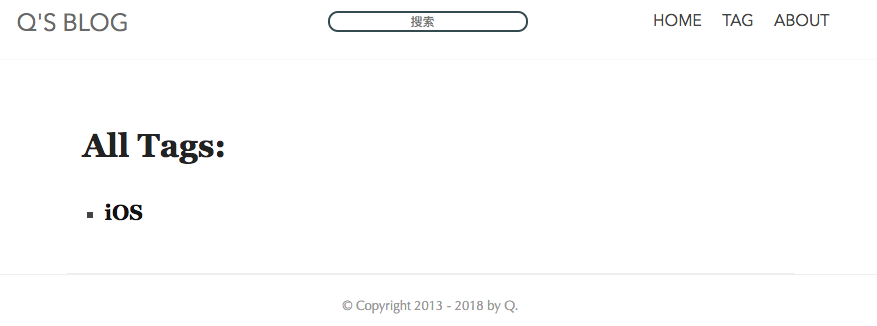
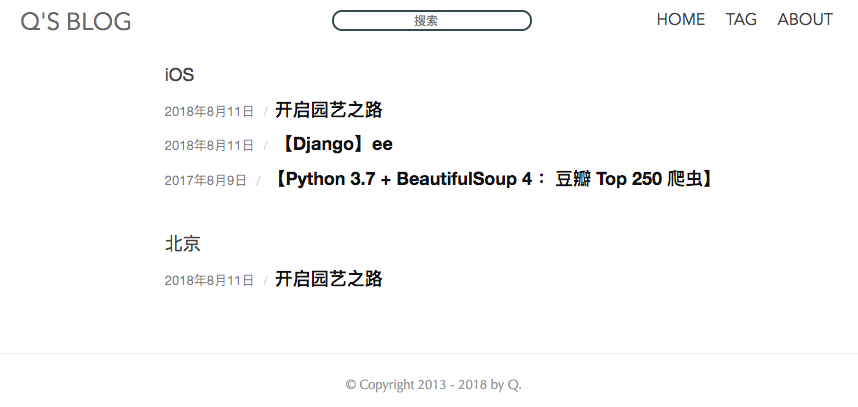
Alter the style of tag page and index, add about me page.

diff --git a/templates/tag.html b/templates/tag.html
@@ -5,19 +5,23 @@
 {% block content %}
 
     <div id="main" class="container X">
-        <div class="entry-header">
-            <div class="container">
-                <h1>All Tags:</h1>
-                <ul>
-                    {% for tag in tags %}
-                    <li>
-                        <h3><a href="{% url 'tag_detail' tag.id %}">{{ tag.name }}</a></h3>
+        <ul>
+            {% for tag, blogs in tags_dic.items %}
+                <li class="entry-item">{{ tag }}</li>
+                {% for blog in blogs %}
+                    <li class="entry-item" itemscope="" itemtype="http://schema.org/Article">
+                        <div class="entry-meta">
+                            <time class="updated" itemprop="datePublished">{{ blog.created_time.date }}</time>
+                            <span itemprop="name"><a itemprop="url" href="{% url 'blog_detail' blog.id %}">{{ blog.title }}</a></span>
+                        </div>
+                        <div class="detail">
+
+                        </div>
                     </li>
-                    {% endfor %}
-                </ul>
-                {% include 'comment.html' %}
-            </div>
-        </div>
+                {% endfor %}
+                <br>
+            {% endfor %}
+        </ul>
     </div>
 
 

diff --git a/blog/static/style.css b/blog/static/style.css
@@ -144,7 +144,10 @@
 }
 
 .X ul {
-	list-style-type: none
+	list-style-type: none;
+    position: relative;
+    right: 10%;
+    left: 10%;
 }
 
 .X ol {
@@ -152,7 +155,7 @@
 }
 
 .X li {
-	margin-bottom: .2em
+	margin-bottom: .2em;
 }
 
 .X li ul,.X li ol {

diff --git a/templates/about.html b/templates/about.html
@@ -1,0 +1,12 @@
+{% extends "base.html" %}
+
+{% block title %}Tag - Q's Blog{% endblock %}
+
+{% block content %}
+
+    <div id="main" class="container X">
+        <h2>Building……</h2>
+    </div>
+
+
+{% endblock %}

diff --git a/blog/views.py b/blog/views.py
@@ -10,6 +10,9 @@ from comments.forms import CommentForm
 #    blog.count_views()
 #    return render(request, 'blog.html', context={'blog': blog})
 
+def about(request):
+    return render(request, 'about.html')
+
 
 class BlogListView(ListView):
     model = Blog
@@ -45,10 +48,22 @@ class BlogDetailView(DetailView):
         return context
 
 
-class TagListView(ListView):
-    model = Tag
-    context_object_name = 'tags'
+class TagView(ListView):
+    model = Blog
+    context_object_name = 'tag_list'
     template_name = 'tag.html'
+
+    def get_context_data(self, *, object_list=None, **kwargs):
+        context = super(TagView, self).get_context_data(**kwargs)
+        tags_dic = {}
+        tags = Tag.objects.all()
+
+        for tag in tags:
+            tags_dic[tag.name] = list(Blog.objects.get_queryset().filter(tags=tag).values('id', 'title', 'created_time'))
+
+        context['tags_dic'] = tags_dic
+        print(context['tags_dic'])
+        return context
 
 
 class TagDetailView(ListView):

diff --git a/QsBlog/urls.py b/QsBlog/urls.py
@@ -1,6 +1,6 @@
 from django.contrib import admin
 from django.conf.urls import *
-from blog.views import TagListView, BlogListView, TagDetailView, RSSFeed, BlogDetailView
+from blog.views import *
 import xadmin
 from django.conf import settings
 from django.conf.urls.static import static
@@ -16,11 +16,11 @@ urlpatterns = [
     url(r'^$', BlogListView.as_view(), name='index'),
 
     # Tag
-    url(r'^tag/$', TagListView.as_view(), name='tag_list'),
+    url(r'^tag/$', TagView.as_view(), name='tag_list'),
     url(r'^tag/(?P<id>[a-zA-Z0-9])+/$', TagDetailView.as_view(), name='tag_detail'),
 
     # About
-    url(r'^about/', BlogListView.as_view(), name='about'),
+    url(r'^about/', about, name='about'),
 
     # RSS
     url(r'^feed/$', RSSFeed(), name="RSS"),
@@ -30,6 +30,7 @@ urlpatterns = [
 
     # Haystack Search
     url(r'^search/', include('haystack.urls')),
+
     url(r'', include('comments.urls')),
 ]
 
